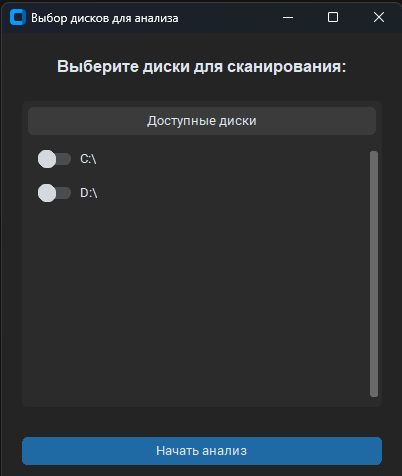
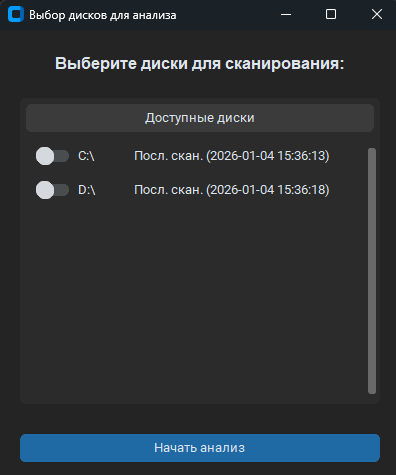
add info about last scan date

diff --git a/ui/disk_indexing.py b/ui/disk_indexing.py
@@ -1,14 +1,18 @@
 import customtkinter as ctk
 
+import os
 import time
-import threading
-import logging
 import glob
+import pickle
+import logging
+import threading
+import compression.zstd
 
 
 from config import DATA_DIR, set_should_run_visualizer
 from logic import SizeFinder, get_start_directories
 from ui import format_bytes
+from utils import format_disk_name
 
 
 ctk.set_appearance_mode("System")
@@ -51,6 +55,7 @@ class DiskIndexingApp(ctk.CTk):
                 var = ctk.BooleanVar(value=False)
                 self.check_vars[disk] = var
                 chk = ctk.CTkSwitch(self.scrollable_frame, text=disk, variable=var)
+                threading.Thread(target=self.add_date_info, args=(disk, chk), daemon=True).start()
                 chk.grid(row=idx, column=0, padx=10, pady=(0, 10), sticky="w") # pyright: ignore[reportUnknownMemberType]
 
         # Прогресс бар
@@ -86,6 +91,18 @@ class DiskIndexingApp(ctk.CTk):
             self.protocol("WM_DELETE_WINDOW", self.on_close) # pyright: ignore[reportUnknownMemberType]
         except Exception:
             pass
+
+    def add_date_info(self, disk_name: str, chk: ctk.CTkSwitch):
+        name = f'disk_{format_disk_name(disk_name)}_usage.data'
+        if not os.path.exists(os.path.join(DATA_DIR, name)):
+            return
+        with open(os.path.join(DATA_DIR, name), "rb") as f:
+            data = compression.zstd.decompress(f.read())
+            data = pickle.loads(data)
+            date = data.get('__date__', {}).get('date', '')
+            if date:
+                chk.configure(text=f"{disk_name}\tПосл. скан. ({date})") # pyright: ignore[reportUnknownMemberType]
+
 
     def start_scan(self):
         selected_disks = [disk for disk, var in self.check_vars.items() if var.get()]

diff --git a/logic/get_size.py b/logic/get_size.py
@@ -4,11 +4,13 @@ import pickle
 import logging
 import threading
 import compression.zstd
+from datetime import datetime
 from queue import Queue, ShutDown
 from typing import Optional, Any
 
 from config import CURRENT_DIR, DATA_DIR, IGNORE_PATHS
 from logic import get_start_directories, get_used_disk_size
+from utils import format_disk_name
 
 
 class SizeFinder:
@@ -226,6 +228,7 @@ class SizeFinder:
             childrens = compression.zstd.compress(pickle.dumps(data[path]['childrens']))
             data[path]['childrens'] = childrens
         data['__root__'] = self.folders['__root__']
+        data['__date__'] = {'date': datetime.now().strftime('%Y-%m-%d %H:%M:%S')}
         return data
 
     def run(self) -> bool:
@@ -285,7 +288,7 @@ class SizeFinder:
             gc.enable()
 
             # Формирование имени файла и сохранение
-            safe_name = start.replace(':', '').replace('/', '_').replace('\\', '_').strip('_')
+            safe_name = format_disk_name(start)
             filename = f"disk_{safe_name}_usage.data"
             output_path = os.path.join(CURRENT_DIR, DATA_DIR, filename)
 

diff --git a/utils/__init__.py b/utils/__init__.py
@@ -1,5 +1,6 @@
 from .color_cache import ColorCache
 from .squarify_local import squarify, normalize_sizes
+from .disk_name_formatting import format_disk_name
 
 
-__all__ = ["ColorCache", "squarify", "normalize_sizes"]
+__all__ = ["ColorCache", "squarify", "normalize_sizes", "format_disk_name"]

diff --git a/utils/disk_name_formatting.py b/utils/disk_name_formatting.py
@@ -1,0 +1,2 @@
+def format_disk_name(name: str) -> str:
+    return name.replace(':', '').replace('/', '_').replace('\\', '_').strip('_')
